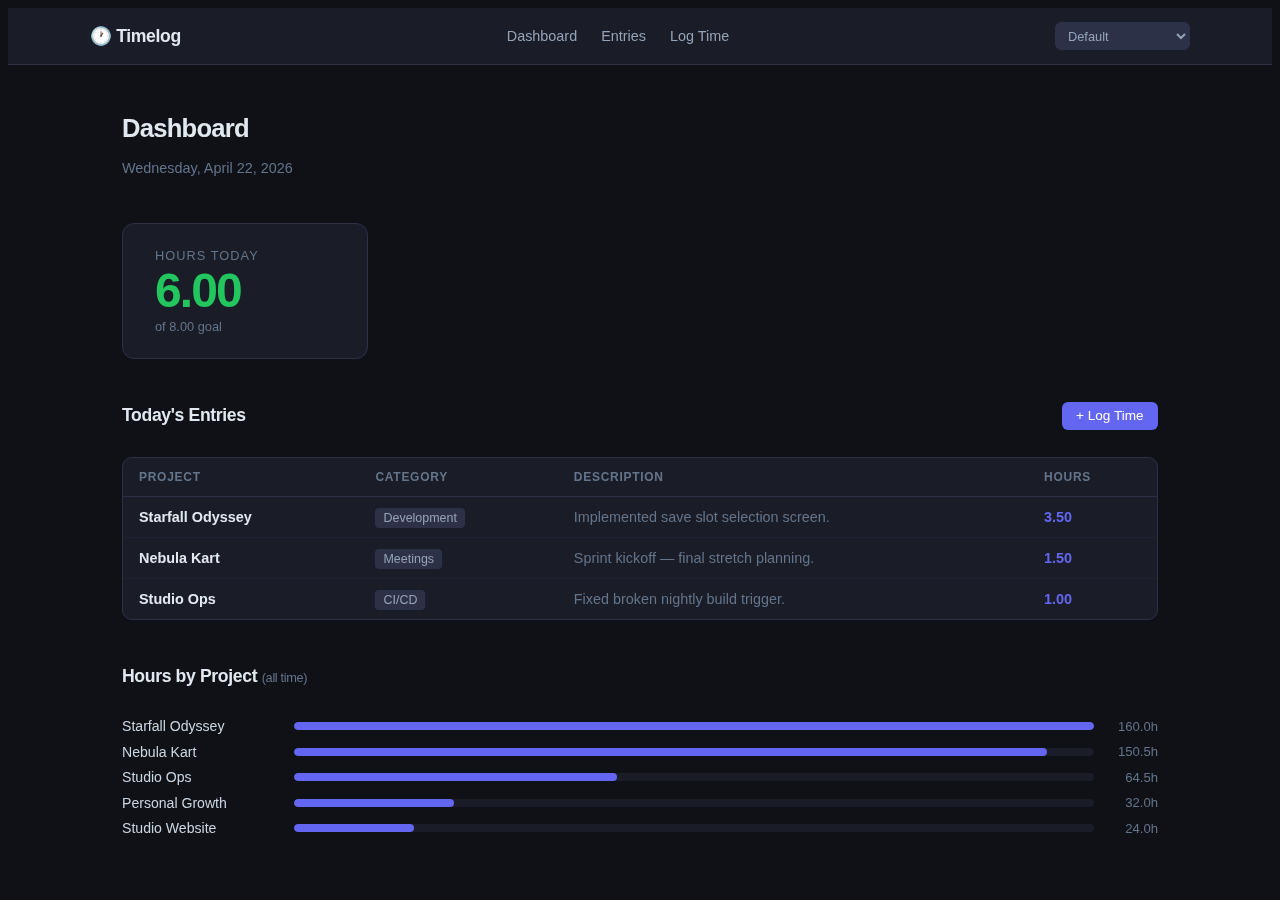
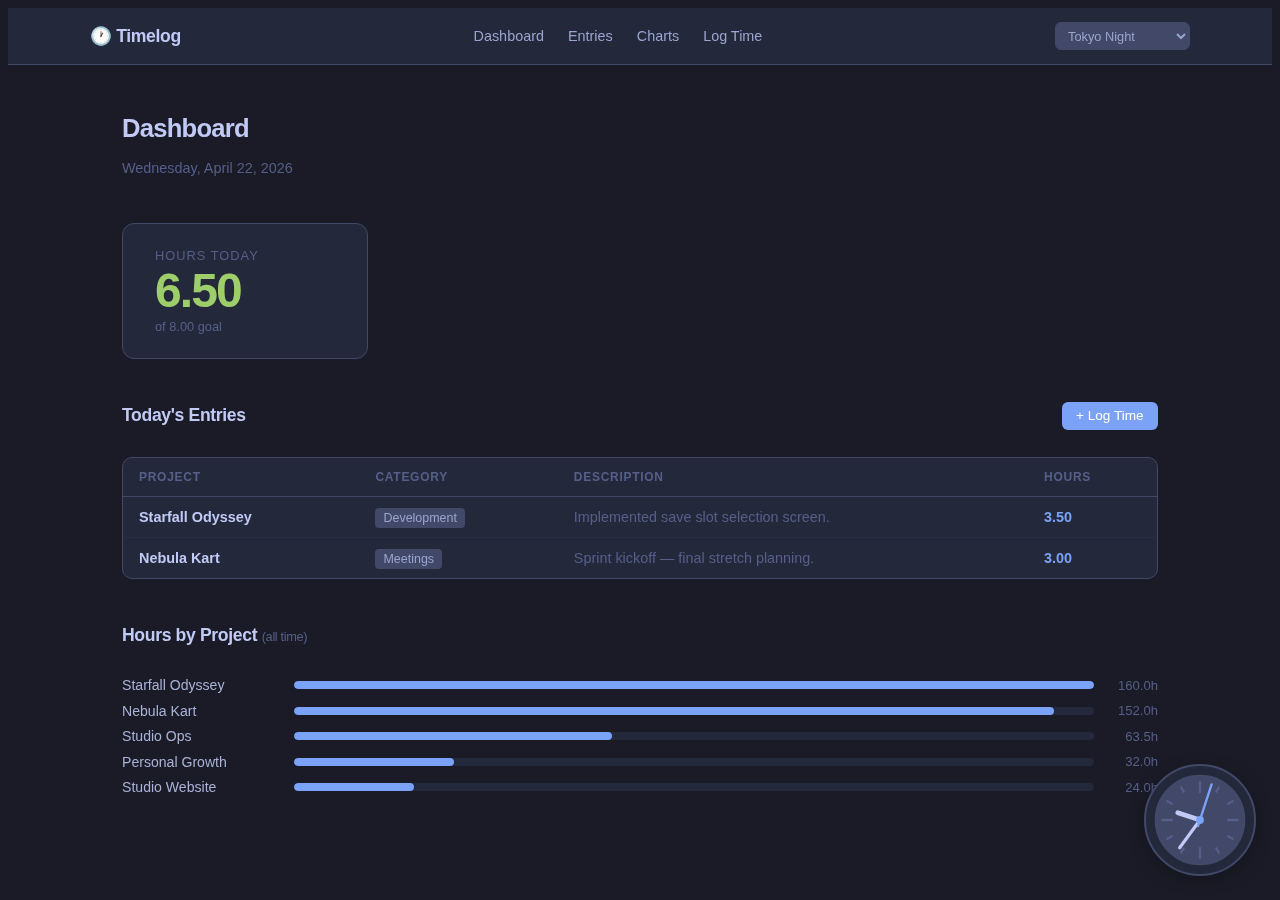
docs: overhaul README with new features and Tokyo Night screenshots
- Retake all screenshots in Tokyo Night theme as new default
- Add Live Timer section with idle/ready/running states
- Add Activity Heatmap section (filter-aware, cell click, legend)
- Add Edit/Delete section with row menu and edit modal screenshots
- Add Charts page section (donuts, stacked bar, pace line, matrix)
- Update nav reference to include Charts page

diff --git a/README.md b/README.md
@@ -89,25 +89,58 @@ Your database is created automatically at `./data/timelog.db` on first run.
 
 ## Frontend
 
-The web UI is available at http://localhost:3000 after running `tlstart`. It has three pages: **Dashboard**, **Entries**, and **Log Time**.
+The web UI is available at http://localhost:3000 after running `tlstart`. Four pages are available in the navigation bar: **Dashboard**, **Entries**, **Charts**, and **Log Time**.
 
 ### Dashboard
 
-The dashboard shows today's hours against an 8-hour goal and a bar chart of all-time hours broken down by project.
+The dashboard shows today's hours against an 8-hour goal, a live table of today's entries, and a bar chart of all-time hours by project.
 
 ![](.img/screenshots/dashboard.png)
 
 ### Log Time
 
-The **Log Time** page is the web equivalent of `tlupdate`. Fill in project, category, description, hours, and an optional date (defaults to today), then hit **Save Entry**.
+The **Log Time** page is the web equivalent of `tlupdate`. Fill in project, category, description, hours, and an optional date (defaults to today), then hit **Save Entry**. Project and category fields support autocomplete from your existing data.
 
 ![](.img/screenshots/log_empty.png)
 
+### Live Timer
+
+A floating clock widget lives in the bottom-right corner of every page. Click it to expand a panel where you can start a timer for a project and category.
+
+![](.img/screenshots/timer_expanded.png)
+
+**Starting a timer:**
+1. Click the clock to open the panel
+2. Fill in Project, Category, and an optional Description
+3. Click **Start Timer**
+
+![](.img/screenshots/timer_ready.png)
+
+While running, the panel shows an elapsed time counter and your project/category. Click **Stop & Log** to stop the timer — it calculates hours, pre-fills the Log Time form, and redirects you there to review and save.
+
+![](.img/screenshots/timer_running.png)
+
+Timer state is persisted to `localStorage`, so refreshing the page or navigating away doesn't lose a running timer.
+
 ### Entries page
 
-The **Entries** page shows your full history in a sortable, filterable table. The footer shows the entry count and total hours for whatever is currently displayed.
+The **Entries** page shows your full history. A GitHub-style activity heatmap sits above the table, followed by a sortable, filterable entry list. The footer shows the entry count and total hours for the current view.
 
 ![](.img/screenshots/entries.png)
+
+#### Activity heatmap
+
+The heatmap displays the last 52 weeks of activity as a grid of cells — darker cells mean more hours logged that day. Color intensity has five levels: no activity, <2h, <4h, <6h, and 6h+.
+
+![](.img/screenshots/entries_heatmap.png)
+
+**Click any cell** to filter the entries table to that day — a date chip appears in the filter bar. Click the × on the chip to clear.
+
+![](.img/screenshots/entries_heatmap_cell_selected.png)
+
+**Filter-aware:** When a project or category filter is active, the heatmap re-derives its intensities from only the matching entries. This lets you see your activity pattern for a specific project at a glance.
+
+![](.img/screenshots/entries_heatmap_filtered.png)
 
 #### Sorting
 
@@ -121,7 +154,7 @@ Click directly on any value in the table to filter to it — no need to touch th
 
 - **Project name** → filters the table and syncs the project dropdown
 - **Category badge** → filters the table and syncs the category dropdown
-- Click the same cell again (or use the × chip in the filter bar) to clear
+- Click the same cell again (or the × chip) to clear
 
 Project filter active:
 
@@ -144,6 +177,34 @@ Click the **Date** button in the filter bar to reveal a text input. Type any par
 Click the calendar icon inside the input to use a date picker instead of typing. Click **Date** again to collapse — your typed value is retained.
 
 ![](.img/screenshots/entries_filter_date.png)
+
+#### Edit and delete entries
+
+Hover over any row to reveal the **⋮** action button on the right. Click it to open a dropdown with **Edit** and **Delete** options.
+
+![](.img/screenshots/entries_row_menu.png)
+
+Clicking **Edit** opens a modal pre-filled with the entry's current values. Update any field and hit **Save** — the table updates immediately and re-sorts by date.
+
+![](.img/screenshots/entries_edit_modal.png)
+
+Clicking **Delete** shows an inline confirmation (**Yes / No**) before removing the entry.
+
+### Charts page
+
+The **Charts** page (`/charts`) gives you a visual breakdown of where your time goes. All charts respond to the **From / To** date range picker in the top-right.
+
+![](.img/screenshots/charts.png)
+
+**Hours by Project** and **Hours by Category** donuts show the share of total hours for each, with exact hour counts and percentages in the legend.
+
+![](.img/screenshots/charts_donuts.png)
+
+**Daily Hours** shows a stacked bar chart of the last 14 days, with each project as a color segment. Gaps in the bars are days with no logged time.
+
+![](.img/screenshots/charts_stacked_bar.png)
+
+The page also includes a **Weekly Pace** sparkline (last 28 days vs. an 8h/day goal line) and a **Project × Category** heat matrix showing exactly where hours go across both dimensions.
 
 ### Themes
 
